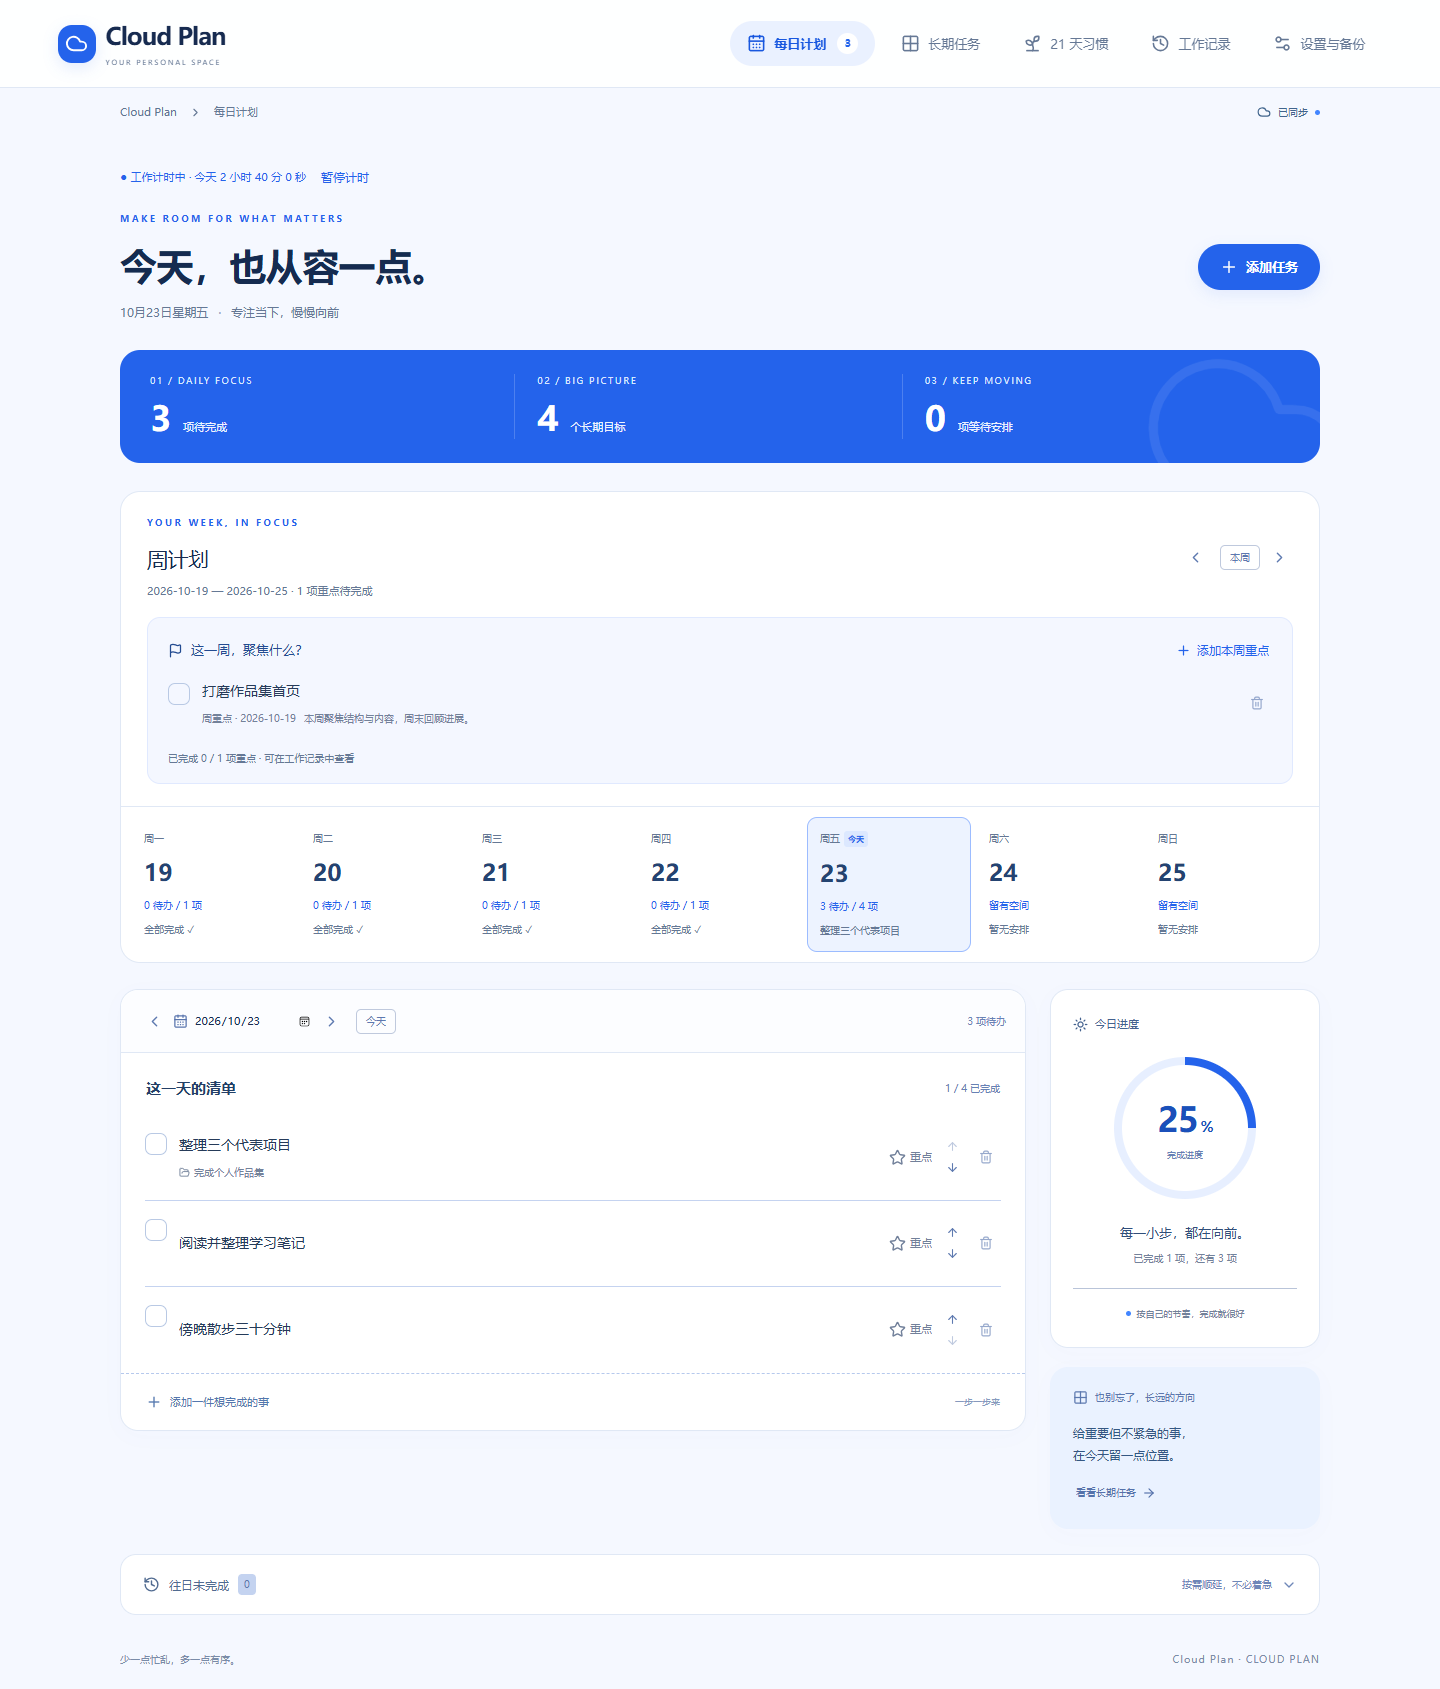
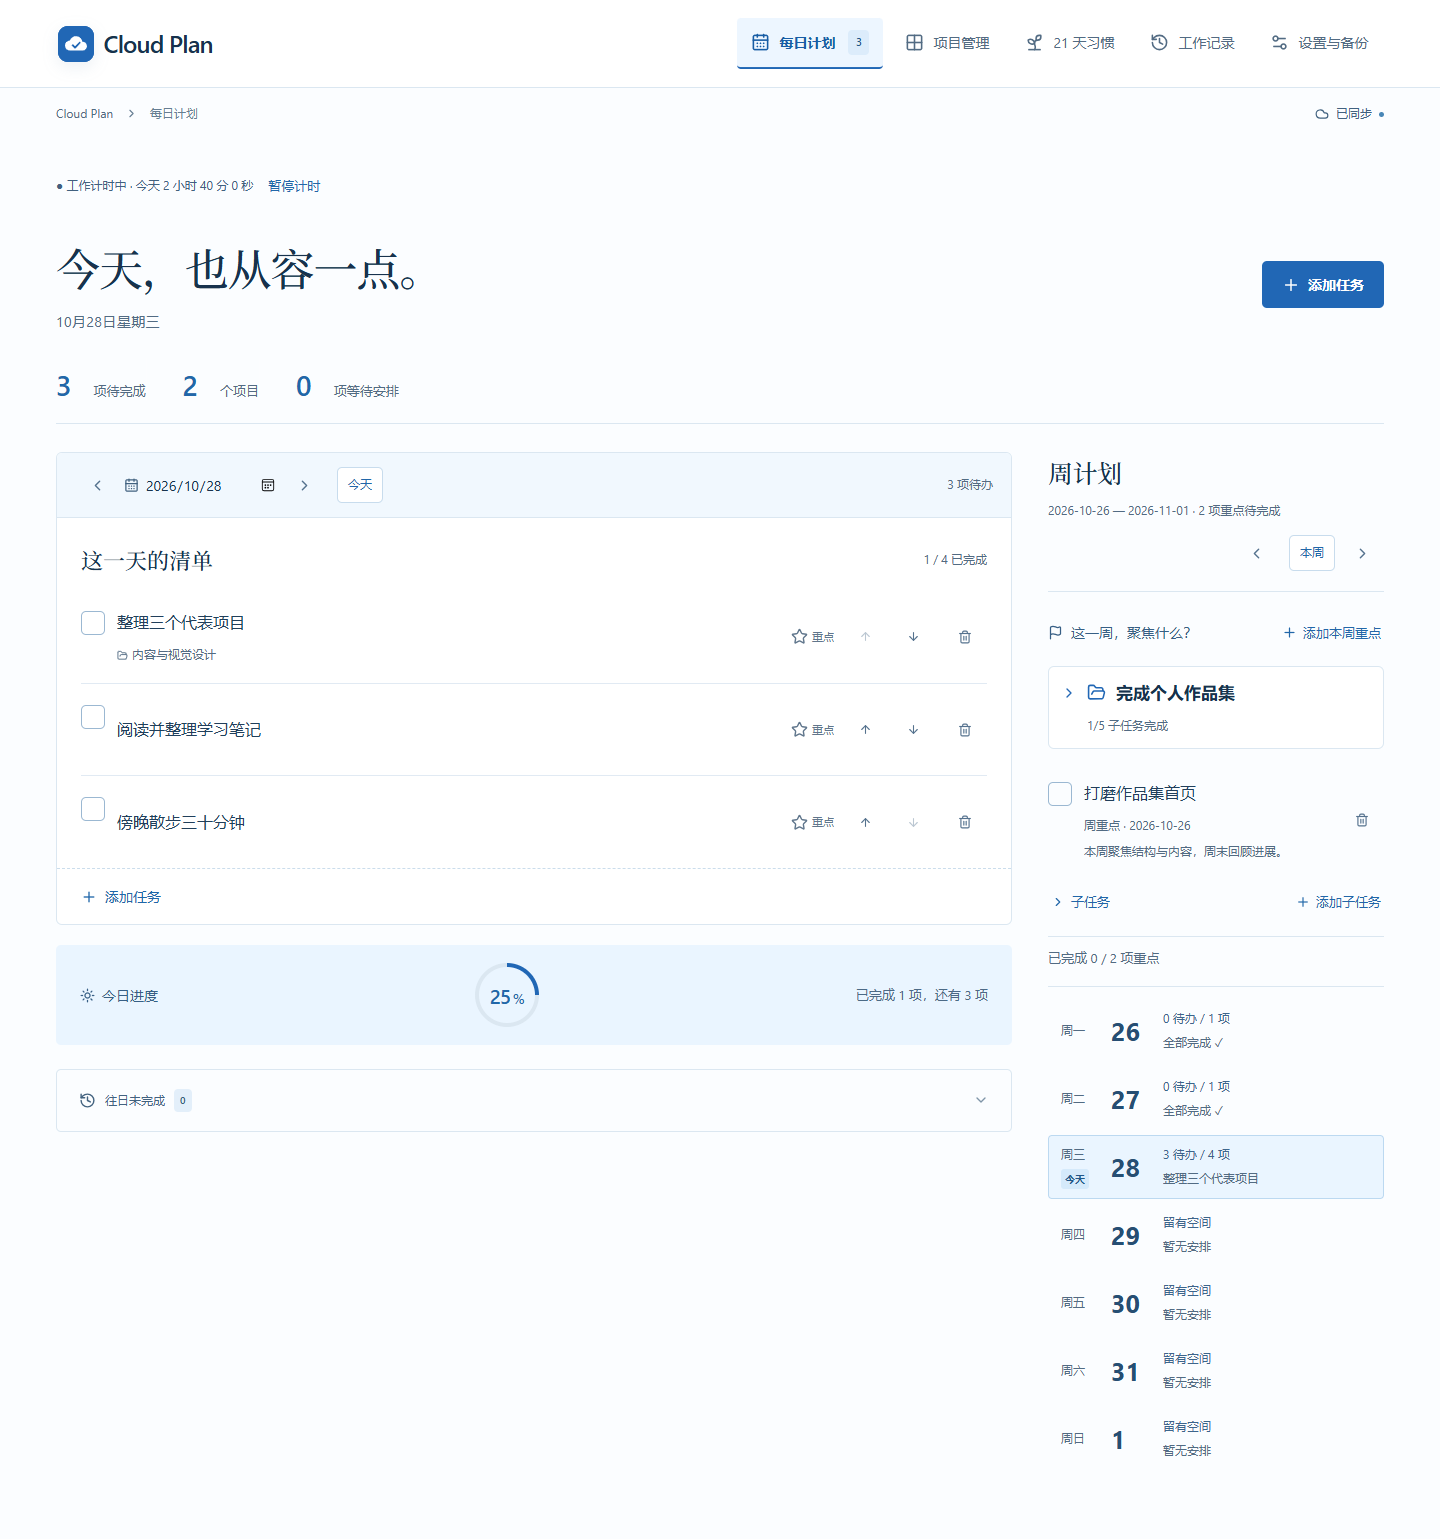
docs: refresh screenshots for redesigned interface and projects

diff --git a/README.md b/README.md
@@ -8,30 +8,30 @@ Cloud Plan 是一款中文个人计划工具，将每日清单、周重点、长
 
 ![Cloud Plan 欢迎页](docs/images/welcome.png)
 
-> 以下为当前界面的演示数据截图，不包含真实个人计划或访问密钥。点击图片可查看大图。
+> 以下为 2026-10-28 更新的「晴空编辑部」界面演示截图，不包含真实个人计划或访问密钥。点击图片可查看大图。
 
 ## 界面一览
 
-界面以白色和浅蓝色为底，蓝色突出主要操作，配合圆角卡片、进度条和图表呈现计划。桌面端通过导航栏切换页面，手机端使用底部导航；每日清单、目标卡片和统计图会随屏幕尺寸调整布局。
+界面采用「晴空编辑部」风格：云白与浅天蓝底色、蓝色操作按钮、衬线标题和细分隔线，让任务内容成为视觉重点。桌面端通过导航栏切换页面，手机端使用底部导航；每日清单、目标卡片和统计图会随屏幕尺寸调整布局。
 
 | 页面 / 区域 | 你可以看到和完成什么 |
 | --- | --- |
 | 每日计划 | 本周重点、七天概览、当天待办、完成进度和往日未完成事项 |
-| 长期任务 | 四象限与列表视图、目标截止日期、子任务和进度 |
+| 项目管理 | 项目与子项目层级、子任务四象限、每日安排和周目标关联 |
 | 21 天习惯 | 习惯卡片、21 天打卡格、练习进度和每日提醒 |
 | 工作记录 | 今日、本周、近 30 天工作时长，以及完成量趋势与完成记录 |
 | 设置与备份 | 导出与恢复计划数据、管理当前设备记住的访问密钥 |
 
 ## 每日计划：把今天安排清楚
 
-![每日计划：上方查看本周重点和七天概览，下方操作当日清单，右侧查看完成进度。](docs/images/daily.png)
+![每日计划：左侧查看当日清单与进度，右侧安排周重点并切换日期。](docs/images/daily.png)
 
-每日计划：上方查看本周重点和七天概览，下方操作当日清单，右侧查看完成进度。
+每日计划：左侧查看当日清单与进度，右侧安排周重点并切换日期。
 
 选择日期即可查看当天清单，新增任务、点击标题编辑，或勾选完成。任务支持备注、计划日期和截止日期，可以用上下箭头调整顺序。
 
 - **当日进度**：通过概览与进度环查看当天的完成情况。
-- **目标联动**：长期目标的子任务设置计划日期后，会出现在对应日期的清单里。
+- **目标联动**：项目或周重点的子任务可一键加入选定日期的每日清单，完成状态在各视图保持一致。
 - **往日待办**：展开未完成事项，按需逐条或批量顺延，避免遗漏。
 - **即时操作反馈**：新增与排序立即显示，后台保存状态帮助确认是否已同步。
 
@@ -39,35 +39,29 @@ Cloud Plan 是一款中文个人计划工具，将每日清单、周重点、长
 
 ## 周计划：先确定这一周的重点
 
-每日计划上方提供周计划区域，以北京时间的周一至周日为一周。
+桌面端每日清单右侧提供周计划区域，以北京时间的周一至周日为一周。
 
-可以切换周次，新增、编辑、删除和完成本周重点；七天概览显示各日待办数量，点击某一天即可切换下方清单。周重点独立于每日任务，适合记录“本周完成报告初稿”这类阶段性成果，完成后同样可以在记录中回顾。
+可以切换周次，新增、编辑、删除和完成本周重点；七天概览显示各日待办数量，点击某一天即可切换下方清单。周重点支持拆分子任务并安排到每日清单。项目也可以加入所属周目标，直接展示原项目及其进度，无需复制记录。
 
 未完成重点会保留在所属周，不会自动顺延到下一周。
 
-## 长期任务：分清轻重缓急，逐步推进目标
+## 项目管理：从方向到每天的行动
 
-![四象限：以重要与紧急程度定位目标，展开卡片查看子任务与进度。](docs/images/goals.png)
+![项目列表：展开项目与子项目，查看子任务并加入每日计划](docs/images/goals-list.png)
 
-四象限：以重要与紧急程度定位目标，展开卡片查看子任务与进度。
+项目列表用可折叠的层级组织内容：上层项目承载方向，子项目划分阶段，子任务落实具体行动。展开项目即可查看完成数量，继续添加子项目或子任务；项目设置收纳编辑、完成与删除等操作。
 
-长期任务提供两种视图，切换时保留同一份目标和进度：
+- **安排到每天**：选择安排日期，点击子任务的“加入每日计划”。各页面引用同一条记录，避免重复创建任务。
+- **关联周目标**：将项目加入选定周的目标，在每日页面的周计划区域继续查看和推进。
+- **层级进度**：项目汇总后代子任务的完成数量，方便同时查看阶段与整体进展。
 
-- **四象限视图**：按重要程度和紧急程度排列成 2×2 网格，向上更重要、向左更紧急。拖动目标手柄即可调整分类，也可以在编辑窗口中选择象限。
-- **列表视图**：集中查看进行中的目标、分类标签、截止日期和子任务进度。
+### 子任务四象限
 
-<details>
-<summary>查看长期任务列表视图</summary>
+![子任务四象限：按重要和紧急程度分类，直接安排到每日计划](docs/images/goals.png)
 
-![长期任务列表：分类、截止日期和进度集中展示](docs/images/goals-list.png)
+切换到“子任务四象限”，集中查看未完成的子任务。四个区域分别对应重要且紧急、重要不紧急、不重要但紧急、不重要不紧急；任务行显示所属项目、日期及操作入口。
 
-列表视图将目标纵向排列，适合逐项查看分类、截止日期和完成比例。
-
-</details>
-
-展开目标卡片即可管理一层子任务。进度条显示已完成步数与比例，帮助看清大目标推进到了哪里；长期目标本身需要手动标记完成。
-
-设置截止日期后，未完成目标会在临近期限时自动进入紧急象限：重要目标为剩余不超过 7 天，不重要目标为剩余不超过 3 天，均包含截止当天和逾期。延后或清空截止日期后，可以手动移回非紧急分类。
+可以拖动手柄调整子任务分类，也可编辑任务修改重要与紧急属性。项目列表负责组织层级，四象限帮助选择行动优先级。
 
 ## 21 天习惯：让每天的坚持看得见
 
@@ -99,9 +93,9 @@ Cloud Plan 是一款中文个人计划工具，将每日清单、周重点、长
 
 ### 完成量趋势与记录
 
-通过彩色堆叠柱状图查看近 7 天、近 30 天或近 12 个月的完成量，也可按每日任务、长期子任务、长期任务和周重点筛选。
+通过彩色堆叠柱状图查看近 7 天、近 30 天或近 12 个月的完成量，也可按每日任务、子任务、项目和周重点筛选。
 
-点击柱子即可查看对应日期或月份的完成事项，再次点击取消筛选。记录按实际完成时间（北京时间）归档，支持取消完成；长期任务与子任务分别计数，习惯打卡不混入任务完成量。
+点击柱子即可查看对应日期或月份的完成事项，再次点击取消筛选。记录按实际完成时间（北京时间）归档，支持取消完成；项目与子任务分别计数，习惯打卡不混入任务完成量。
 
 ## 云端同步与备份
 
@@ -125,7 +119,7 @@ Cloud Plan 是一款中文个人计划工具，将每日清单、周重点、长
 
 1. 在电脑或手机打开已部署的 Cloud Plan，输入访问密钥。
 2. 写下本周重点，再把今天要做的事加入每日清单。
-3. 将长期目标放入四象限，拆成子任务并安排到具体日期。
+3. 建立项目与子项目，在四象限中安排子任务优先级，再加入具体日期的清单。
 4. 为想坚持的小事创建习惯卡，每天打卡。
 5. 在工作记录中回顾投入与成果，并定期导出备份。
 
